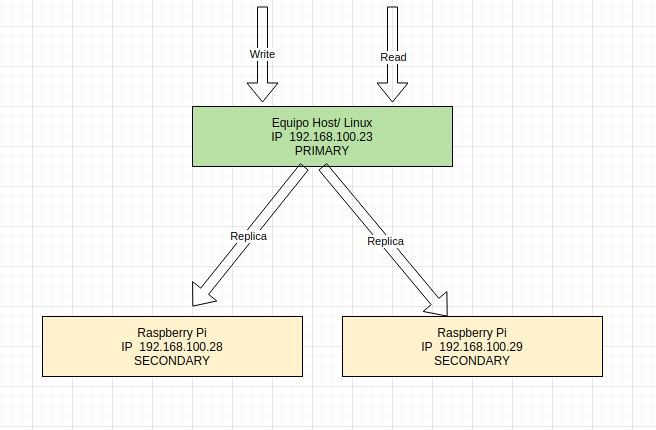
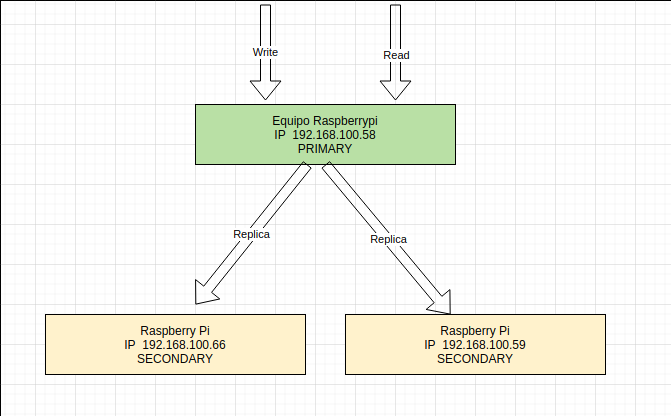
png

Changed region(s): [[0.061, 0.0, 0.9451, 0.9062], [0.0, 0.0, 0.0305, 0.0312]]

diff --git a/CONFIG-HA.md b/CONFIG-HA.md
@@ -10,9 +10,9 @@ ilustraremos la siguiente configuración:
 
 ![replica](docs/replica-local.png)
 
-  - Nodo Primario Arch Linux 16gb RAM Core i7 8th gen 
-  - Nodo Secundario Raspberry Pi 4/ Raspberry pi OS 4gb Ram 
-  - Nodo Secundario Raspberry Pi 4/ Raspberry pi OS 4gb Ram
+  - Nodo Primario Raspberry pi 4/ Ubuntu 20.04 4gb ram
+  - Nodo Secundario Raspberry Pi 4/ Ubuntu 20.04 4gb Ram 
+  - Nodo Secundario Raspberry Pi 4/ Ubuntu 20.04  4gb Ram
 
 Notaremos que los tres nodos estan en la misma red.
 
@@ -68,7 +68,7 @@ Primary
 Hosts
 ```
 echo '127.0.0.1     primary'  >> /etc/hosts 
-echo '192.168.100.5     secondary1'  >> /etc/hosts 
+echo '192.168.100.59     secondary1'  >> /etc/hosts 
 echo '192.168.100.66     secondary2'  >> /etc/hosts 
 ```
 Secondary 1
@@ -76,7 +76,7 @@ Secondary 1
 Hosts
 ```
 echo '127.0.0.1     secondary1'  >> /etc/hosts 
-echo '192.168.100.23     primary'  >> /etc/hosts 
+echo '192.168.100.58     primary'  >> /etc/hosts 
 echo '192.168.100.66     secondary2'  >> /etc/hosts 
 ```
 
@@ -85,8 +85,8 @@ Secondary 2
 Hosts
 ```
 echo '127.0.0.1     secondary2'  >> /etc/hosts 
-echo '192.168.100.23     primary'  >> /etc/hosts 
-echo '192.168.100.66     secondary1'  >> /etc/hosts 
+echo '192.168.100.58     primary'  >> /etc/hosts 
+echo '192.168.100.59     secondary1'  >> /etc/hosts 
 ```
 Editar /etc/mongodb.conf (como root) en todos los nodos incluido el Primary para que quede de la siguiente manera:
 ```
@@ -121,5 +121,9 @@ En el nodo Primary ejecutar la siguiente sentencia
 ```
  rs.status()
 ```
+Para causar una caida del nodo Primary podemos provocar la caida del servicio
 
+```
+sudo systemctl stop mongod.service
+```
 

diff --git a/INSTALL.md b/INSTALL.md
@@ -73,8 +73,9 @@ Configurar el archivo config/app.json especificando las rutas para la base de da
 |---|---|
 ```
 {
-  "mongoUrl": "mongodb://localhost/videos",
-   "mongoUrlDev": "mongodb://localhost/videos"
+  "mongoUrl": "mongodb://primary,secondary1,secondary2/movies",
+  "mongoUrlDev": "mongodb://primary,secondary1,secondary2/movies",
+  "mongoUrlTest": "mongodb://primary,secondary1,secondary2/movies"
 }
 ```
 #### 2.3 Cargado de datos de prueba (seeders)
